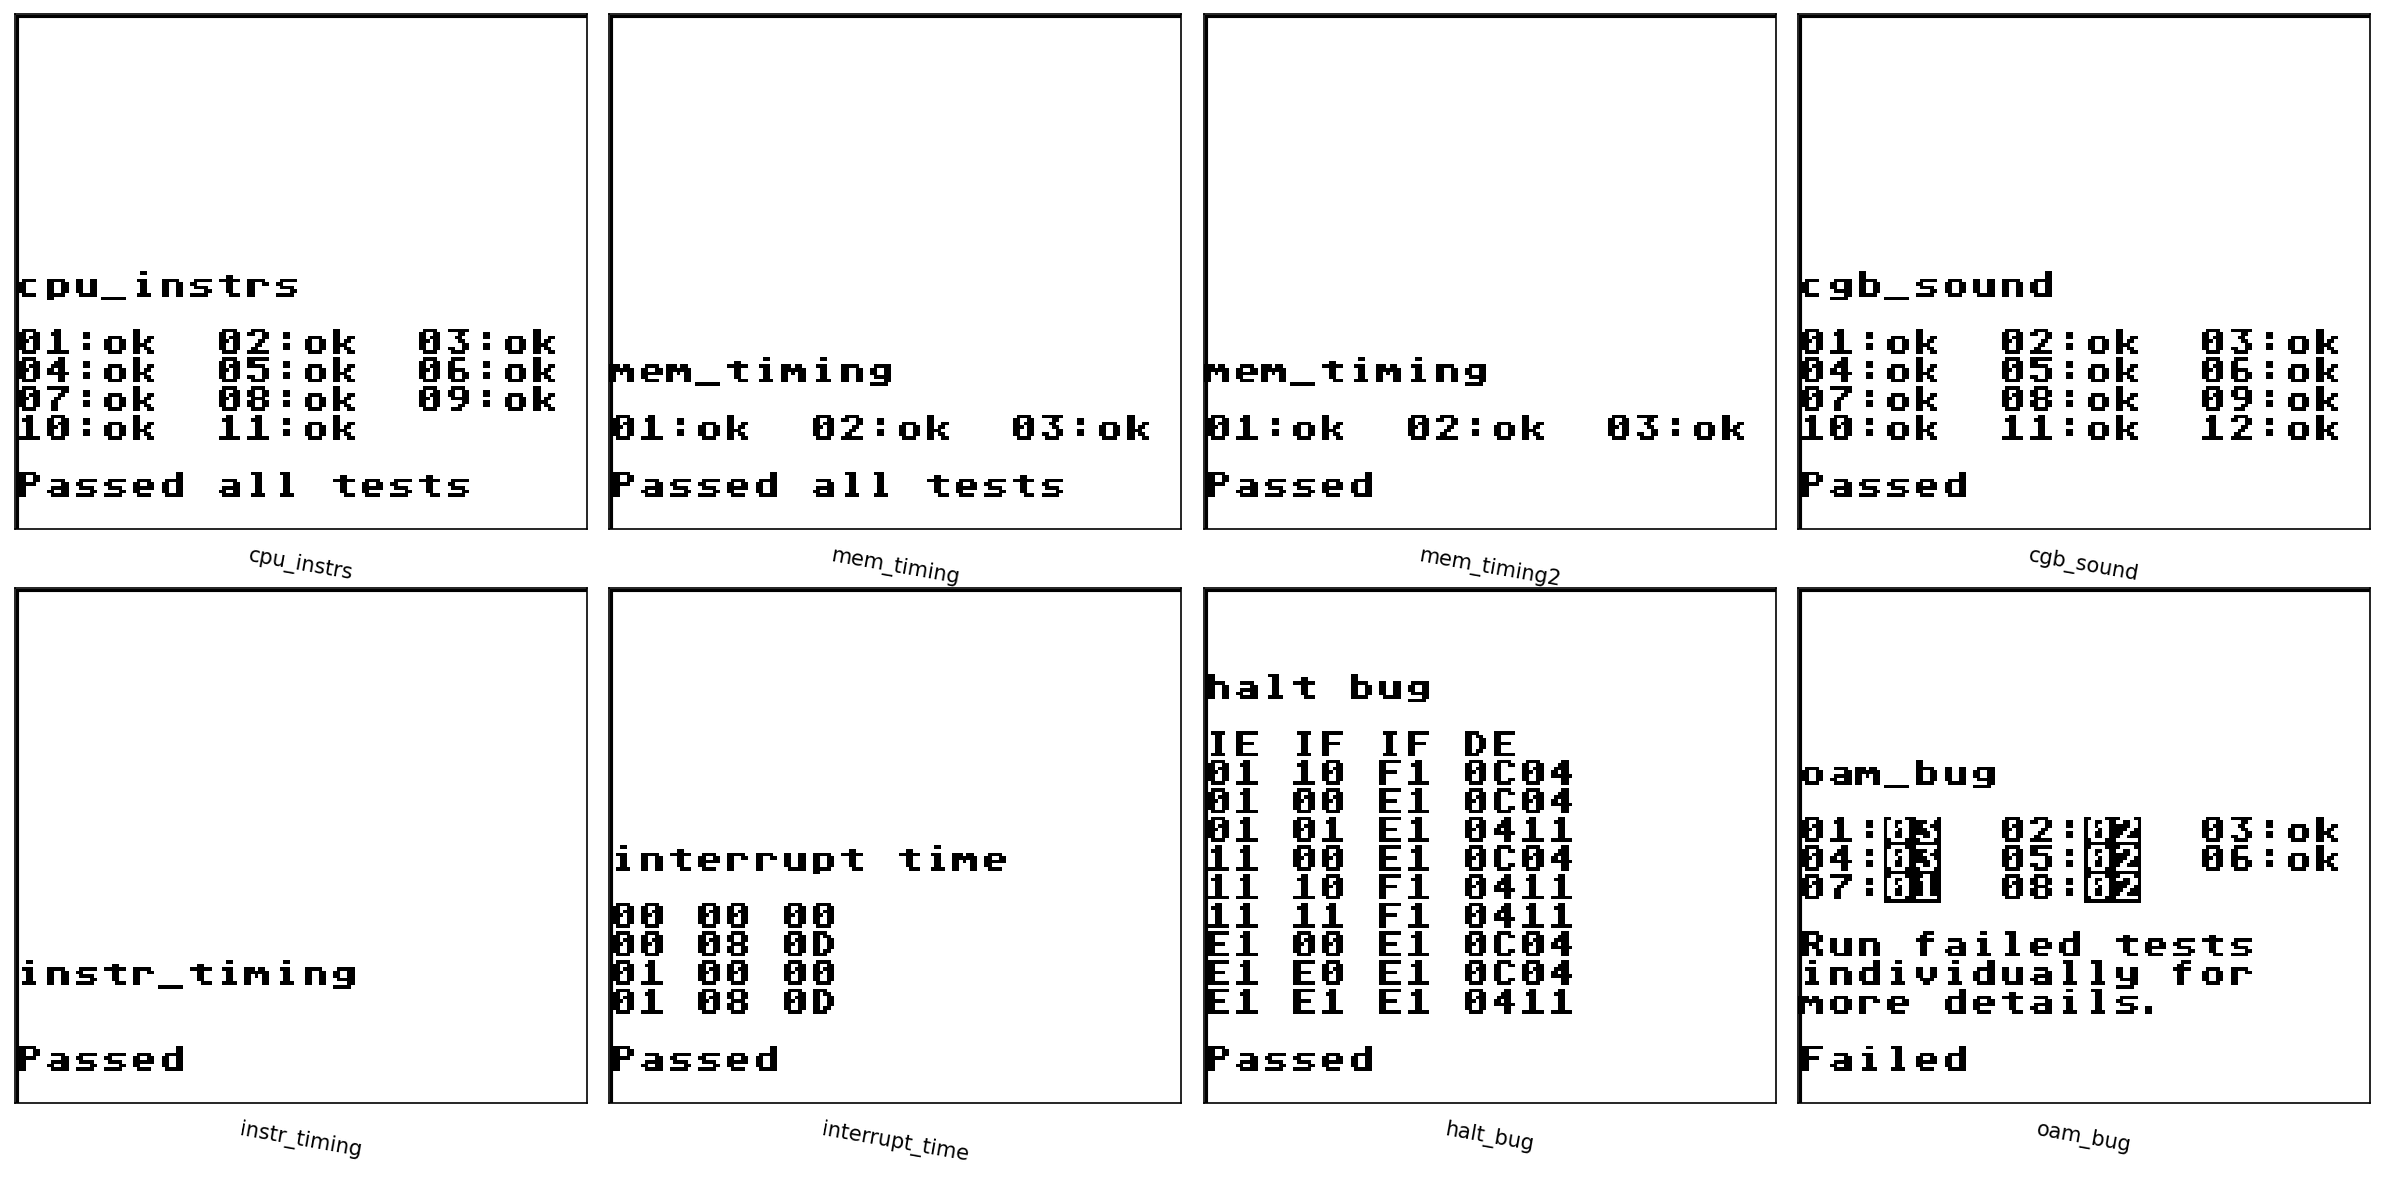
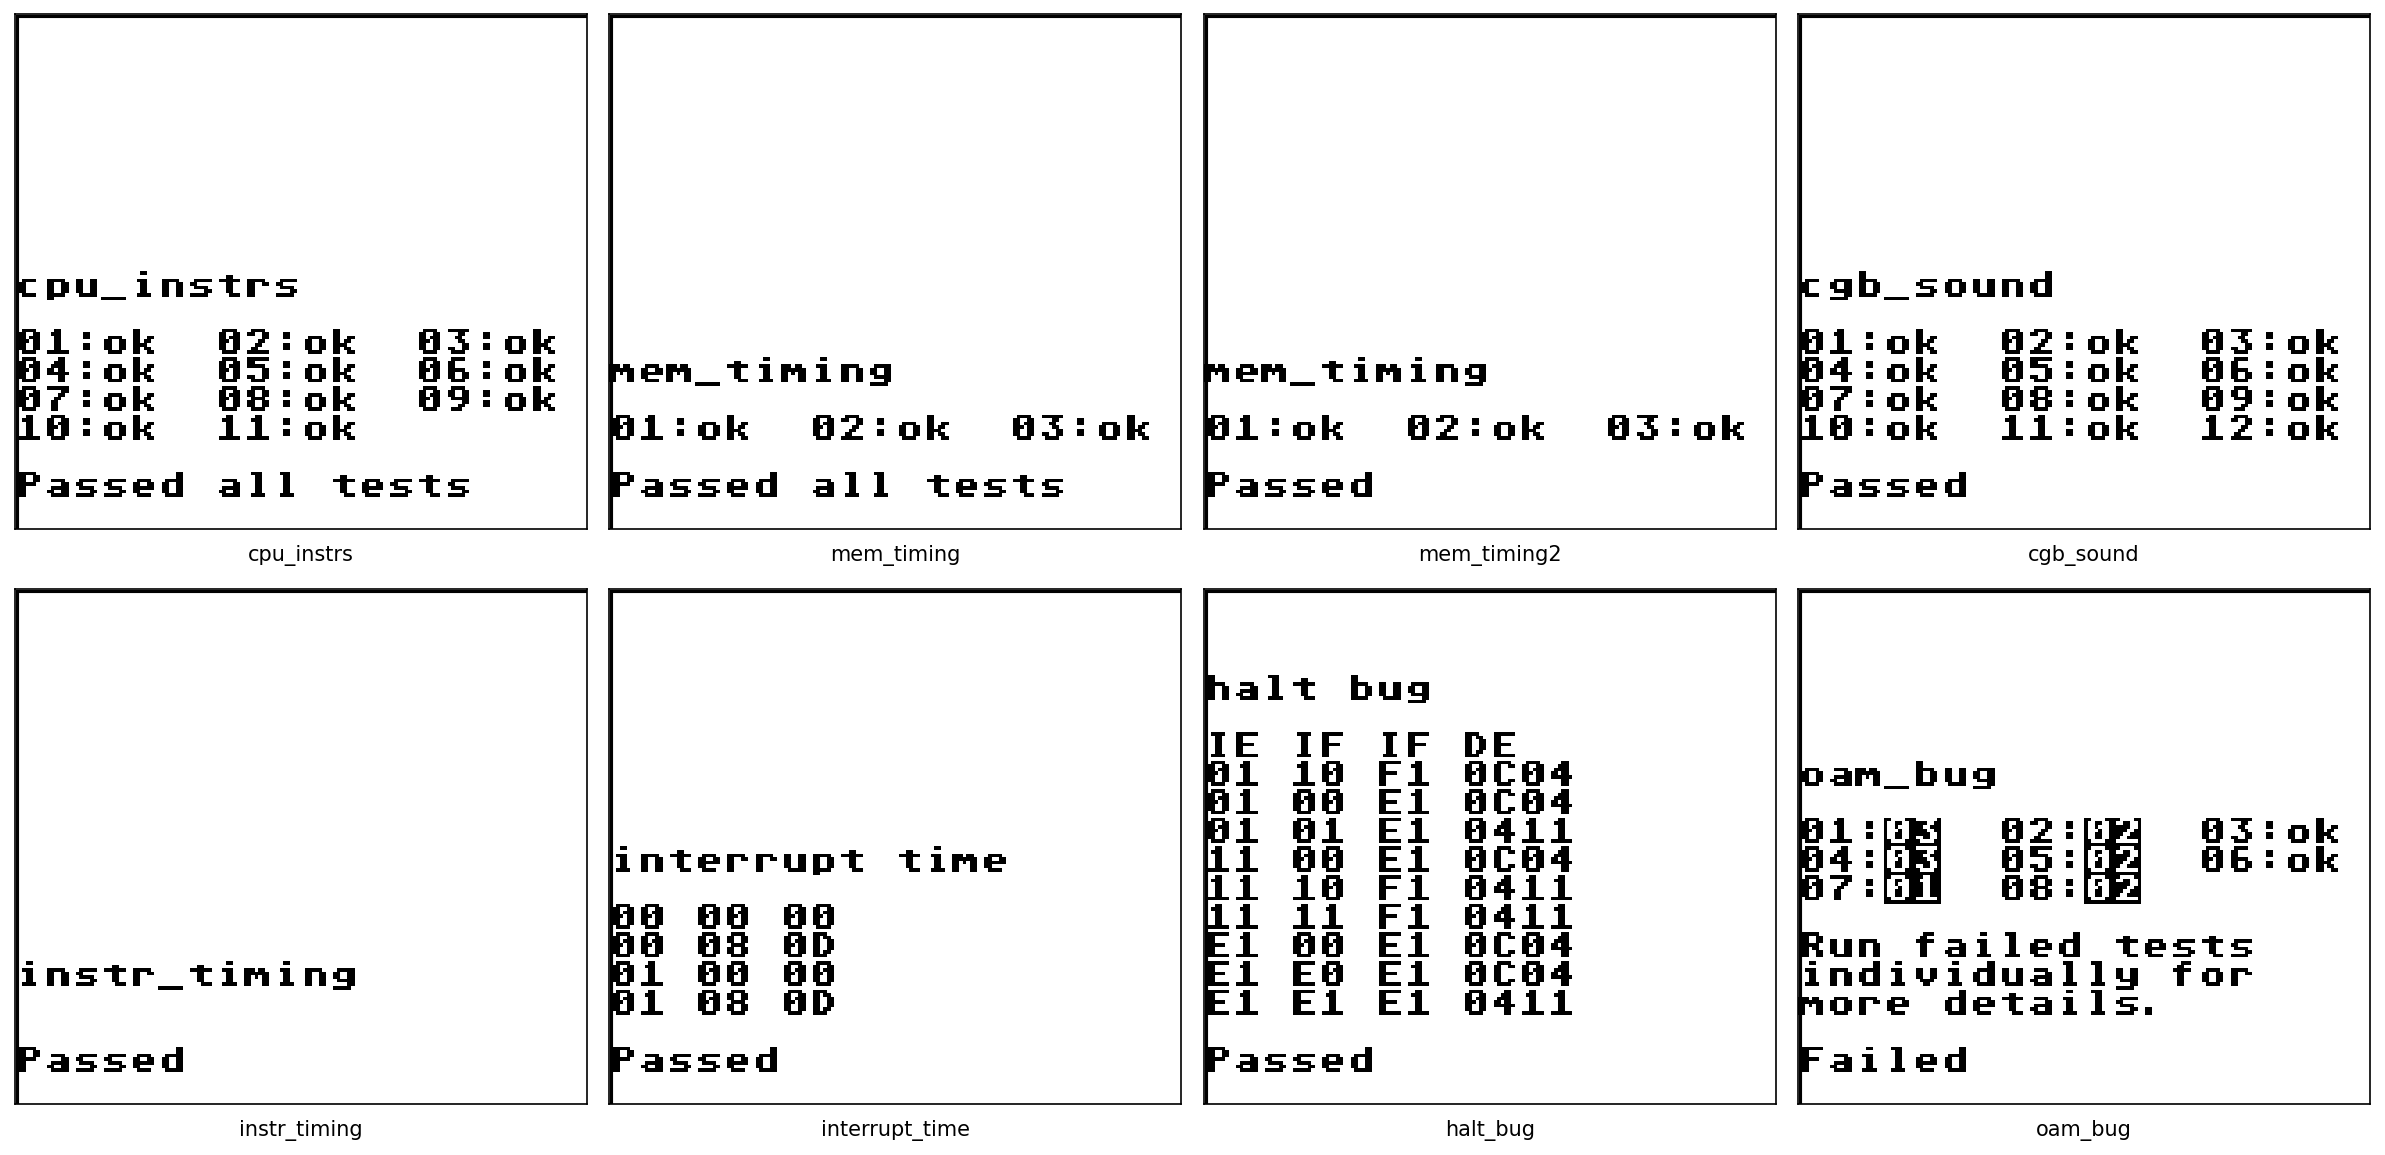
Include magen test suite

diff --git a/testing/test_visual.py b/testing/test_visual.py
@@ -74,6 +74,49 @@ BLARGG_CASES = [
     ),
 ]
 
+MAGEN_CASES = [
+    (
+        "bg_oam_priority",
+        "https://github.com/alloncm/MagenTests/releases/download/0.5.0/bg_oam_priority.gbc",
+        "0c5a8a7405a35f73cdc4268489ad7b6a",
+    ),
+    (
+        "hblank_vram_dma",
+        "https://github.com/alloncm/MagenTests/releases/download/0.5.0/hblank_vram_dma.gbc",
+        "6d4f6a3605a14fab7d6ddd6edb600c97",
+    ),
+    (
+        "key0_lock_after_boot",
+        "https://github.com/alloncm/MagenTests/releases/download/0.5.0/key0_lock_after_boot.gbc",
+        "6d4f6a3605a14fab7d6ddd6edb600c97",
+    ),
+    (
+        "mbc_oob_sram_mbc1",
+        "https://github.com/alloncm/MagenTests/releases/download/0.5.0/mbc_oob_sram_mbc1.gbc",
+        "6d4f6a3605a14fab7d6ddd6edb600c97",
+    ),
+    (
+        "mbc_oob_sram_mbc3",
+        "https://github.com/alloncm/MagenTests/releases/download/0.5.0/mbc_oob_sram_mbc3.gbc",
+        "6d4f6a3605a14fab7d6ddd6edb600c97",
+    ),
+    (
+        "mbc_oob_sram_mbc5",
+        "https://github.com/alloncm/MagenTests/releases/download/0.5.0/mbc_oob_sram_mbc5.gbc",
+        "6d4f6a3605a14fab7d6ddd6edb600c97",
+    ),
+    (
+        "oam_internal_priority",
+        "https://github.com/alloncm/MagenTests/releases/download/0.5.0/oam_internal_priority.gbc",
+        "a08a75fed2c64faae9df5cb3125e8005",
+    ),
+    (
+        "ppu_disabled_state",
+        "https://github.com/alloncm/MagenTests/releases/download/0.5.0/ppu_disabled_state.gbc",
+        "6d4f6a3605a14fab7d6ddd6edb600c97",
+    ),
+]
+
 
 def load_cart_from_url(url: str) -> Cartridge:
     resp = requests.get(url, timeout=30)
@@ -136,7 +179,6 @@ def run_test_set_rendered(
                 transform=ax.transAxes,
                 ha="center",
                 va="top",
-                rotation=-10,
                 fontsize=10,
             )
 
@@ -154,13 +196,23 @@ def run_acid_test_suite():
     )
 
 
-def run_blargg_cpu_tests():
+def run_blargg_tests():
     run_test_set_rendered(
         urls=[i[1] for i in BLARGG_CASES],
         titles=[i[0] for i in BLARGG_CASES],
         rows=2,
         cols=4,
         out_path="assets/blargg_cpu_mem.png",
+    )
+
+
+def run_magen_tests():
+    run_test_set_rendered(
+        urls=[i[1] for i in MAGEN_CASES],
+        titles=[i[0] for i in MAGEN_CASES],
+        rows=2,
+        cols=4,
+        out_path="assets/magen_tests.png",
     )
 
 
@@ -178,6 +230,14 @@ def test_blargg_suite(title: str, url: str, expected_md5: str):
     assert digest == expected_md5, f"{title} failed (got {digest})"
 
 
+@pytest.mark.parametrize("title,url,expected_md5", MAGEN_CASES)
+def test_magen_suite(title: str, url: str, expected_md5: str):
+    img = run_and_get_frame(url)
+    digest = to_digest(img)
+    assert digest == expected_md5, f"{title} failed (got {digest})"
+
+
 if __name__ == "__main__":
     run_acid_test_suite()
-    run_blargg_cpu_tests()
+    run_blargg_tests()
+    run_magen_tests()
